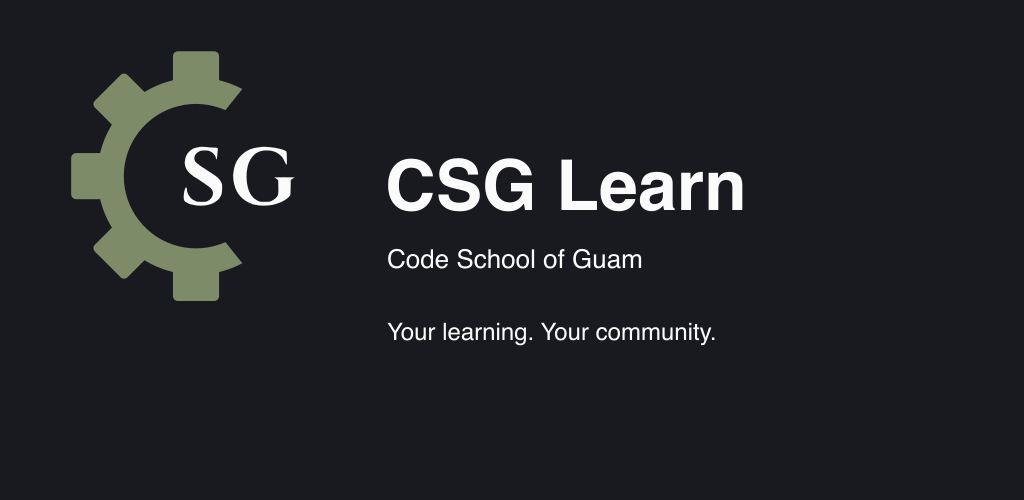
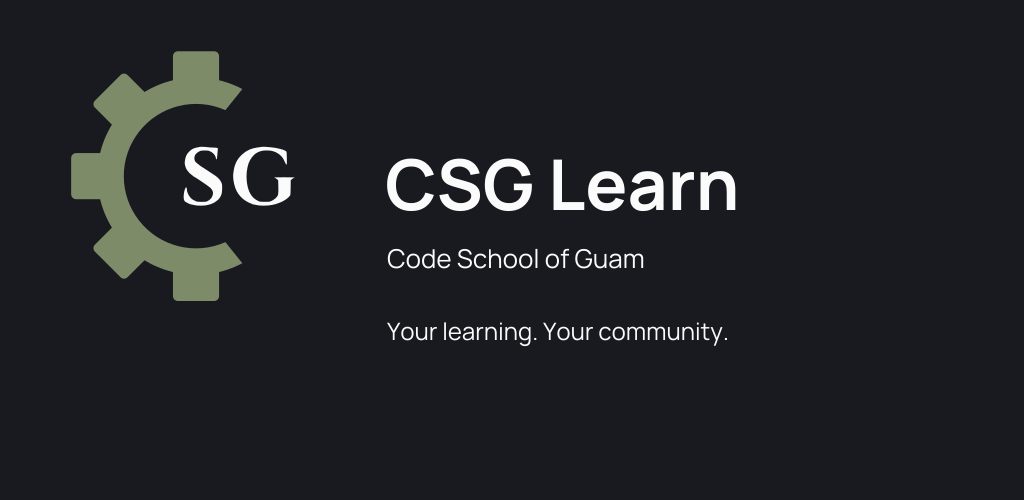
Verify every generated release asset is current
Check Play PNGs and generated documentation SVG copies for stale or missing output. Outline feature copy with the existing Manrope font so raster freshness checks do not depend on system fonts.

Changed region(s): [[0.375, 0.3, 0.75, 0.42], [0.375, 0.63, 0.7188, 0.69], [0.375, 0.48, 0.6562, 0.54]]

diff --git a/mobile/assets/brand/README.md b/mobile/assets/brand/README.md
@@ -31,7 +31,7 @@ node scripts/generate-brand-assets.mjs --evidence /absolute/output/directory
 Sharp is a pinned development dependency. All icon/splash/notification/favicon
 PNGs and Android store images derive from these SVG sources. `brand:check`
 checks dimensions, alpha, white silhouettes, grayscale tint, pixel freshness,
-and the Android66/108 safe circle. On macOS it also decodes every image with
+and the Android66/108 safe circle. It also checks the Play PNGs and every generated documentation SVG copy for missing/stale output. The feature graphic copy uses committed Manrope outlines in `play-feature-copy.svg` (from the existing font package under the SIL Open Font License), so generation needs no system font. On macOS it also decodes every image with
 `sips`. The icon dark background is transparent; tinted is white on black.
 Splash sources use dark ink on cream in light appearance and white on the dark
 tile in dark appearance. Notification uses only the simple white gear silhouette.
